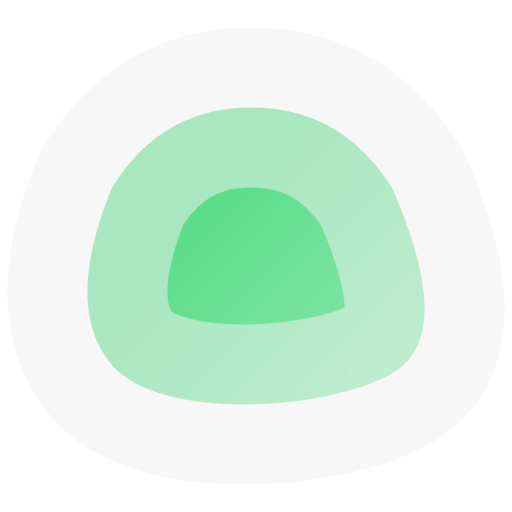
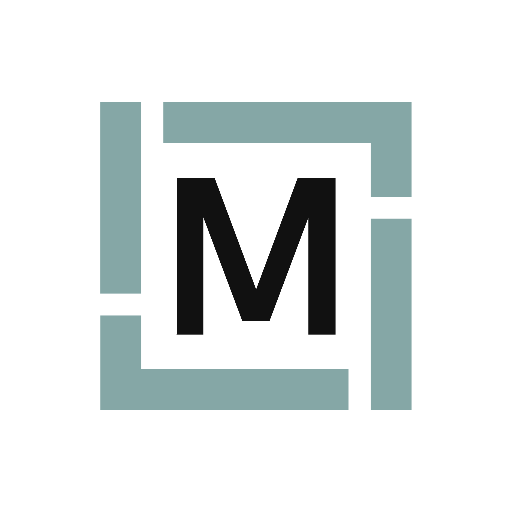
MINIMA Branding

diff --git a/index.html b/index.html
@@ -1,33 +1,41 @@
 <!DOCTYPE html>
 <html lang="en">
-<head>
-    <meta charset="UTF-8" />
-    <meta name="viewport" content="width=device-width, initial-scale=1.0, viewport-fit=cover" />
-    <link rel="apple-touch-icon" sizes="180x180" href="/apple-touch-icon.png">
-    <link rel="icon" type="image/svg+xml" href="/icon.svg" />
-    <link rel="manifest" href="/manifest.json" />
-    <meta name="theme-color" id="theme-color" content="" />
-    <meta name="description" content="Uptime Kuma monitoring tool" />
-    <title>Uptime Kuma</title>
-    <style>
-        .noscript-message {
-            font-size: 20px;
-            text-align: center;
-            padding: 10px;
-            max-width: 500px;
-            margin: 0 auto;
-        }
-    </style>
-</head>
-<body>
-<noscript>
-<div class="noscript-message">
-    Sorry, you don't seem to have JavaScript enabled or your browser
-    doesn't support it.<br />This website requires JavaScript to function.
-    Please enable JavaScript in your browser settings to continue.
-</div>
-</noscript>
-<div id="app"></div>
-<script type="module" src="/src/main.js"></script>
-</body>
+    <head>
+        <meta charset="UTF-8" />
+        <meta
+            name="viewport"
+            content="width=device-width, initial-scale=1.0, viewport-fit=cover"
+        />
+        <link
+            rel="apple-touch-icon"
+            sizes="180x180"
+            href="/apple-touch-icon.png"
+        />
+        <link rel="icon" type="image/svg+xml" href="/icon.webp" />
+        <link rel="manifest" href="/manifest.json" />
+        <meta name="theme-color" id="theme-color" content="" />
+        <meta name="description" content="Uptime Kuma monitoring tool" />
+        <title>Uptime Kuma</title>
+        <style>
+            .noscript-message {
+                font-size: 20px;
+                text-align: center;
+                padding: 10px;
+                max-width: 500px;
+                margin: 0 auto;
+            }
+        </style>
+    </head>
+    <body>
+        <noscript>
+            <div class="noscript-message">
+                Sorry, you don't seem to have JavaScript enabled or your browser
+                doesn't support it.<br />This website requires JavaScript to
+                function. Please enable JavaScript in your browser settings to
+                continue.
+            </div>
+        </noscript>
+        <div id="app"></div>
+        <script type="module" src="/src/main.js"></script>
+    </body>
 </html>

diff --git a/src/assets/vars.scss b/src/assets/vars.scss
@@ -1,4 +1,4 @@
-$primary: #5cdd8b;
+$primary: #8aaba9;
 $danger: #dc3545;
 $warning: #f8a306;
 $maintenance: #1747f5;

diff --git a/src/assets/vue-datepicker.scss b/src/assets/vue-datepicker.scss
@@ -9,7 +9,7 @@
     --dp-hover-color: #484848;
     --dp-hover-text-color: #ffffff;
     --dp-hover-icon-color: #959595;
-    --dp-primary-color: #{#5cdd8b};
+    --dp-primary-color: #{#8aaba9};
     --dp-primary-text-color: #ffffff;
     --dp-secondary-color: #494949;
     --dp-border-color: #{$dark-border-color};